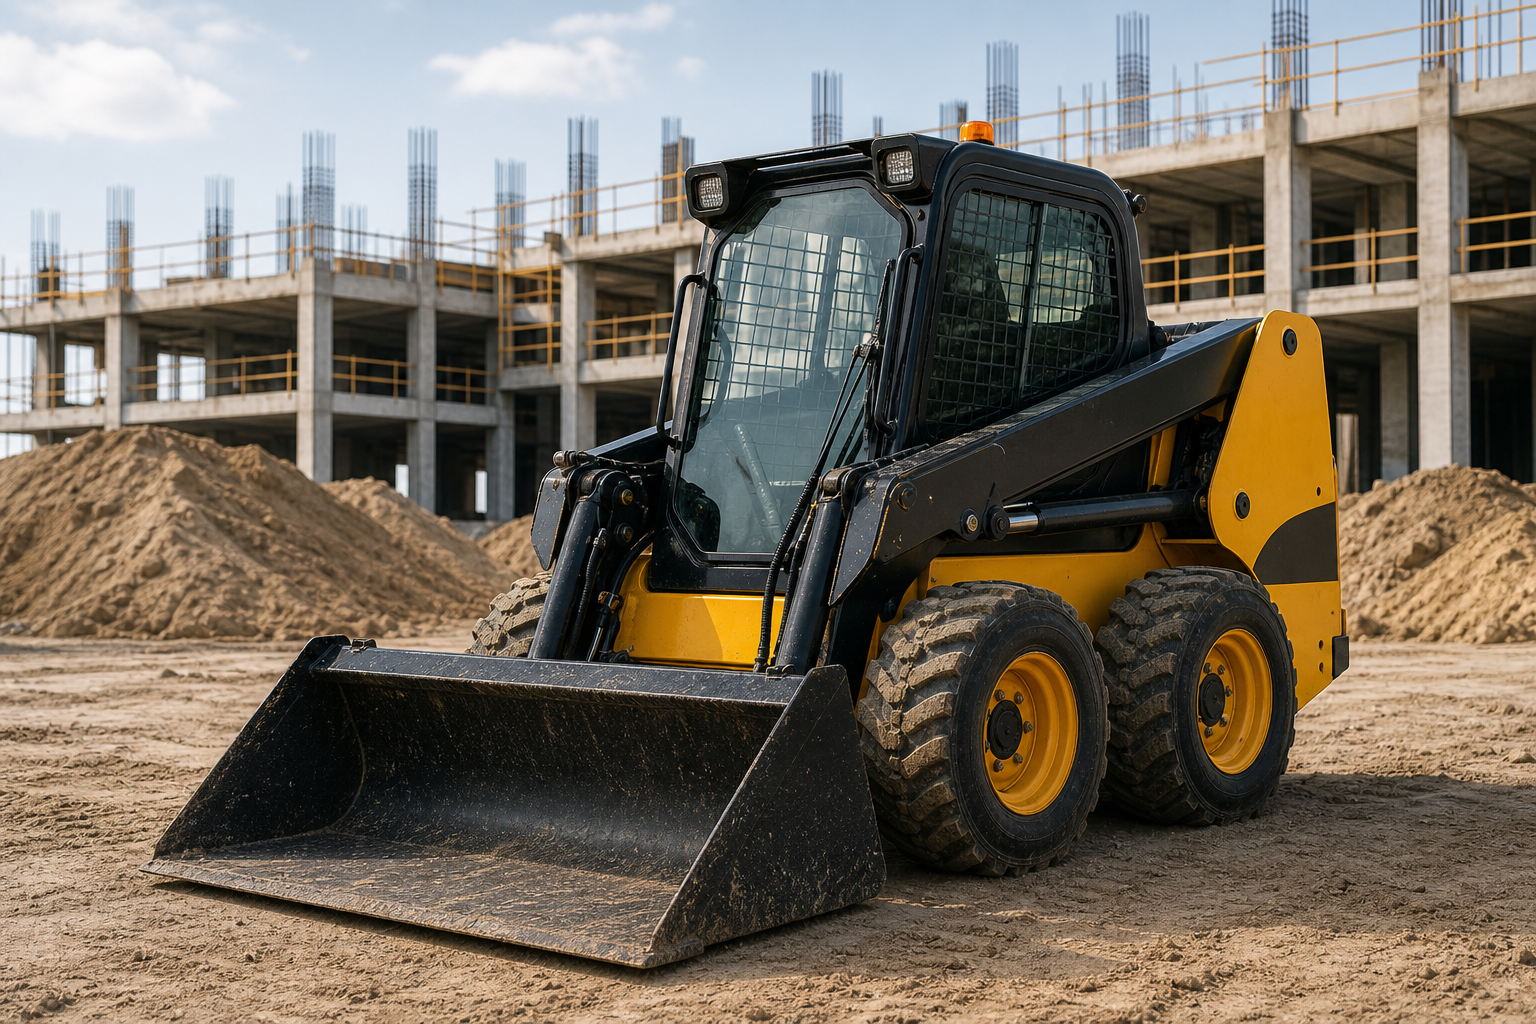
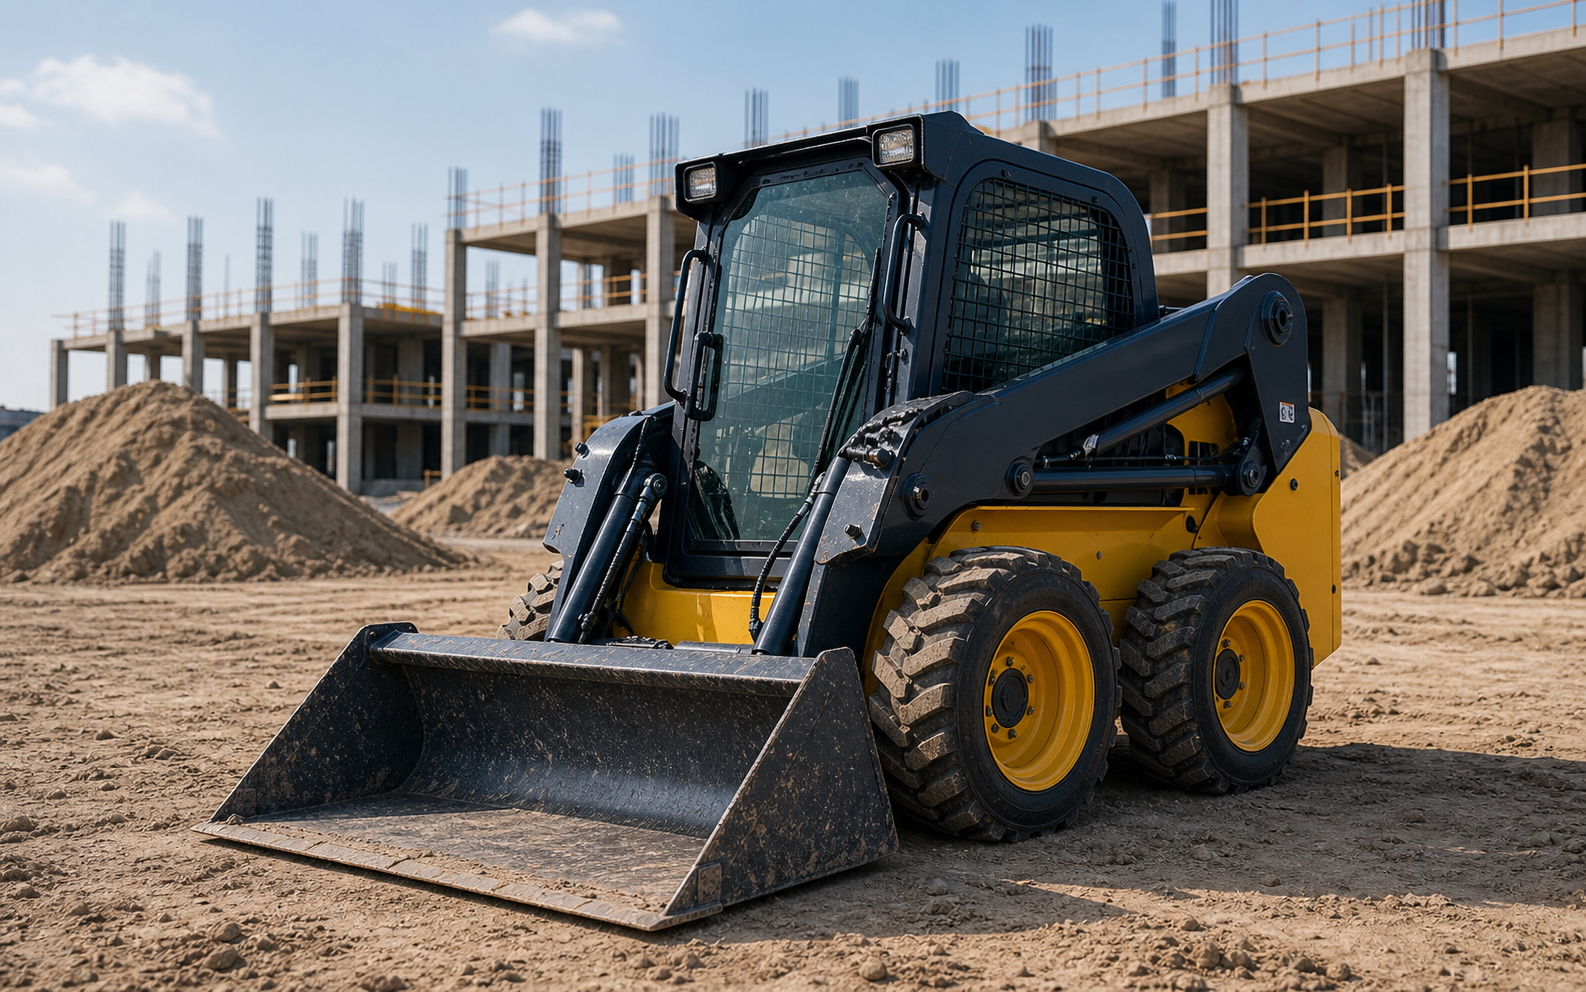
Regenerate equipment catalog images

diff --git a/lib/equipment.ts b/lib/equipment.ts
@@ -70,7 +70,7 @@ export const equipment: Equipment[] = [
     attachments: ["Шнеки 200-400 мм", "Ковши"],
     useCases: ["Бурение под сваи", "Заборы", "Фундамент", "Посадочные ямы"],
     imagePlaceholderType: "excavator",
-    imageUrl: "/images/equipment/excavator-auger.png",
+    imageUrl: "/images/equipment/kubota-kx41-3v-auger.png",
     withOperatorAvailable: true,
     deliveryAvailable: true
   },
@@ -118,7 +118,7 @@ export const equipment: Equipment[] = [
     attachments: ["Гидробур", "Ковш", "Вилы"],
     useCases: ["Бурение свай", "Посадка деревьев", "Погрузка", "Планировка"],
     imagePlaceholderType: "loader",
-    imageUrl: "/images/equipment/loader-auger.png",
+    imageUrl: "/images/equipment/new-holland-l160-auger.png",
     withOperatorAvailable: true,
     deliveryAvailable: true
   },
@@ -142,6 +142,7 @@ export const equipment: Equipment[] = [
     attachments: ["Люлька", "Страховочный комплект"],
     useCases: ["Фасады", "Монтаж рекламы", "Электромонтаж", "Работы на складах"],
     imagePlaceholderType: "lift",
+    imageUrl: "/images/equipment/manitou-180-atj.png",
     withOperatorAvailable: true,
     deliveryAvailable: true
   },
@@ -165,6 +166,7 @@ export const equipment: Equipment[] = [
     attachments: ["Тент", "Доставка сыпучих материалов"],
     useCases: ["Вывоз грунта", "Доставка песка", "Доставка щебня", "Снабжение объекта"],
     imagePlaceholderType: "truck",
+    imageUrl: "/images/equipment/kamaz-6520.png",
     withOperatorAvailable: true,
     deliveryAvailable: true
   },
@@ -188,6 +190,7 @@ export const equipment: Equipment[] = [
     attachments: ["Оператор", "Доставка"],
     useCases: ["Асфальтирование", "Дорожки", "Парковки", "Благоустройство"],
     imagePlaceholderType: "loader",
+    imageUrl: "/images/equipment/hamm-hd12.png",
     withOperatorAvailable: true,
     deliveryAvailable: true
   },
@@ -211,6 +214,7 @@ export const equipment: Equipment[] = [
     attachments: ["Пика", "Долото"],
     useCases: ["Демонтаж бетона", "Разрушение кирпича", "Мерзлый грунт", "Проемы"],
     imagePlaceholderType: "excavator",
+    imageUrl: "/images/equipment/delta-f5-hydraulic-hammer.png",
     withOperatorAvailable: true,
     deliveryAvailable: true
   }